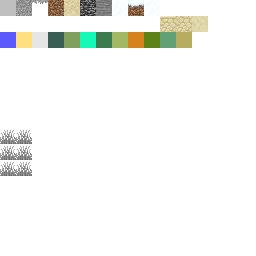
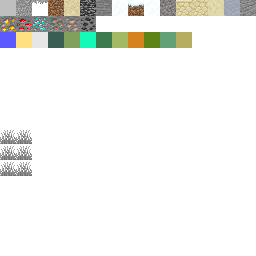
FEAT: inner biome 구성 및 beach, ocean biome 구성

Changed region(s): [[0.625, 0.0, 1.0, 0.125], [0.0, 0.0625, 0.375, 0.125]]

diff --git a/voxen/Terrain.h b/voxen/Terrain.h
@@ -279,23 +279,16 @@ namespace Terrain {
 		return max(elevation, 1.0f);
 	}
 
-	static float GetCaveDensity(
-		int x, int y, int z, float seed, float xScale, float yScale, float zScale)
-	{
-		float dNoise = PerlinFbm(x / xScale + seed, y / yScale + seed, z / zScale + seed, 2.0f, 4);
-
-		return dNoise;
-	}
-
 	static bool IsCave(int x, int y, int z)
 	{
 		float threshold = 0.004f;
 
-		float density1 = Terrain::GetCaveDensity(x, y, z, 3.0f, 256.0f, 256.0f, 256.0f);
+		float density1 = PerlinFbm(x / 256.0f, y / 256.0f, z / 256.0f, 2.0f, 4);
 		if (density1 * density1 > threshold)
 			return false; // ealry return
 
-		float density2 = Terrain::GetCaveDensity(x, y, z, 123.0f, 512.0f, 256.0f, 512.0f);
+		float density2 =
+			PerlinFbm(x / 512.0f + 123.0f, y / 256.0f + 123.0f, z / 512.0f + 123.0f, 2.0f, 4);
 		if (density2 * density2 > threshold)
 			return false;
 
@@ -322,6 +315,29 @@ namespace Terrain {
 		hNoise = std::clamp(hNoise * 1.5f, -1.0f, 1.0f);
 
 		return (hNoise + 1.0f) * 0.5f;
+	}
+
+	static float GetDistribution(int x, int z)
+	{
+		float scale = 24.0f;
+		float seed = 773.0f;
+
+		float dNoise = PerlinFbm(x / scale + seed, z / scale + seed, 2.0f, 4);
+		dNoise = std::clamp(dNoise * 1.5f, -1.0f, 1.0f);
+
+		return (dNoise + 1.0f) * 0.5f;
+	}
+
+	static float GetDensity(int x, int y, int z)
+	{
+		float scale = 16.0f;
+		float seed = 331.0f;
+
+		float dNoise = PerlinFbm(x / scale + seed, y / scale + seed, z / scale + seed, 2.0f, 2);
+
+		dNoise = std::clamp(dNoise * 1.5f, -1.0f, 1.0f);
+
+		return (dNoise + 1.0f) * 0.5f;
 	}
 
 	static BIOME_TYPE GetBiomeType(float elevation, float temperature, float humidity)
@@ -358,7 +374,7 @@ namespace Terrain {
 			}
 			else if (humidity < 0.75f) {
 				return BIOME_FOREST;
-			} 
+			}
 			else {
 				return BIOME_SWAMP;
 			}
@@ -378,14 +394,75 @@ namespace Terrain {
 		return BIOME_PLAINS;
 	}
 
-	static BLOCK_TYPE GetBlockTypeByBiome(BIOME_TYPE biomeType)
-	{ 
+	static BLOCK_TYPE GetBlockTypeForInner(int x, int y, int z, float distribution)
+	{
+		BLOCK_TYPE blockType;
+		
+		float density = GetDensity(x, y, z);
+		if (density <= 0.3f) {
+			blockType = BLOCK_DIRT;
+		}
+		else if (density <= 0.75f) {
+			blockType = BLOCK_STONE;
+		}
+		else if (density <= 0.88f) {
+			blockType = BLOCK_ANDESITE;
+		}
+		else {
+			if (distribution <= 0.4f) {
+				blockType = BLOCK_COAL_ORE;
+			}
+			else if (distribution <= 0.6f) {
+				blockType = BLOCK_COPPER_ORE;
+			}
+			else if (distribution <= 0.7f) {
+				blockType = BLOCK_IRON_ORE;
+			}
+			else if (distribution <= 0.8f) {
+				blockType = BLOCK_REDSTONE_ORE;
+			}
+			else if (distribution <= 0.9f) {
+				blockType = BLOCK_GOLD_ORE;
+			}
+			else {
+				blockType = BLOCK_DIAMOND_ORE;
+			}
+		}
+
+		return blockType;
+	}
+
+	static BLOCK_TYPE GetBlockTypeForBiome(BIOME_TYPE biomeType, int y, float h, float d)
+	{
+		int baseHeight = (int)floor(h);
+
 		switch (biomeType) {
+
 		case BIOME_OCEAN:
-			return BLOCK_A; 
+			if (d <= 0.42f) {
+				return BLOCK_SAND;
+			}
+			else if (d <= 0.66f) {
+				return BLOCK_DIRT;
+			}
+			else if (d <= 0.83f) {
+				return BLOCK_GRAVEL;
+			}
+			else {
+				return BLOCK_CLAY;
+			}
+			break;
 
 		case BIOME_BEACH:
-			return BLOCK_B;
+			if (d <= 0.66f) {
+				return BLOCK_SAND;
+			}
+			else if (d <= 0.83f) {
+				return BLOCK_SANDSTONE;
+			}
+			else {
+				return BLOCK_GRAVEL;
+			}
 
 		case BIOME_TUNDRA:
 			return BLOCK_C;
@@ -423,27 +500,26 @@ namespace Terrain {
 	}
 
 	static BLOCK_TYPE GetBlockType(int x, int y, int z, float elevation, float temperature,
-		float humidity, float continentalness, float erosion, float peaksValley)
+		float humidity, float continentalness, float erosion, float peaksValley, float distribution)
 	{
 		if (y == MIN_HEIGHT_LEVEL)
 			return BLOCK_BEDROCK;
 
 		BLOCK_TYPE blockType = (y <= WATER_HEIGHT_LEVEL) ? BLOCK_WATER : BLOCK_AIR;
 
-		if (y < elevation && !IsCave(x, y, z)) {
+		if (y <= elevation && !IsCave(x, y, z)) {
 			int biomeLayer =
-				1 + (int)(4.0f * (1.0f - erosion) * powf(((-peaksValley + 1.0f) * 0.5f), 0.5f));
+				1 + (int)(6.0f * (1.0f - erosion) * powf(((-peaksValley + 1.0f) * 0.5f), 0.5f));
 
 			if (y <= elevation - biomeLayer) {
-				blockType = BLOCK_STONE;
-				// 3D noise density
+				blockType = GetBlockTypeForInner(x, y, z, distribution);
 			}
 			else {
 				// Biome Block
 				float r = 32.0f * peaksValley * powf((1.0f - erosion), 1.25f);
 
 				BIOME_TYPE biomeType = GetBiomeType(elevation - r, temperature, humidity);
-				blockType = GetBlockTypeByBiome(biomeType);
+				blockType = GetBlockTypeForBiome(biomeType, y, elevation, distribution);
 			}
 		}
 
@@ -487,6 +563,41 @@ namespace Terrain {
 
 		case BLOCK_SNOW:
 			return TEXTURE_SNOW;
+
+		case BLOCK_GRAVEL:
+			return TEXTURE_GRAVEL;
+
+		case BLOCK_SANDSTONE:
+			if (face == DIR::TOP)
+				return TEXTURE_SANDSTONE_TOP;
+			else if (face == DIR::BOTTOM)
+				return TEXTURE_SANDSTONE_BOTTOM;
+			else
+				return TEXTURE_SANDSTONE_SIDE;
+
+		case BLOCK_CLAY:
+			return TEXTURE_CLAY;
+
+		case BLOCK_ANDESITE:
+			return TEXTURE_ANDESITE;
+
+		case BLOCK_COAL_ORE:
+			return TEXTURE_COAL_ORE;
+
+		case BLOCK_GOLD_ORE:
+			return TEXTURE_GOLD_ORE;
+
+		case BLOCK_REDSTONE_ORE:
+			return TEXTURE_REDSTONE_ORE;
+
+		case BLOCK_DIAMOND_ORE:
+			return TEXTURE_DIAMOND_ORE;
+
+		case BLOCK_COPPER_ORE:
+			return TEXTURE_COPPER_ORE;
+
+		case BLOCK_IRON_ORE:
+			return TEXTURE_IRON_ORE;
 
 		// TESTING
 		case BLOCK_A:

diff --git a/voxen/Structure.h b/voxen/Structure.h
@@ -38,6 +38,17 @@ enum BLOCK_TYPE : uint8_t {
 	BLOCK_STONE = 6,
 	BLOCK_SAND = 7,
 	BLOCK_SNOW = 8,
+	BLOCK_GRAVEL = 9,
+	BLOCK_SANDSTONE = 10,
+	BLOCK_CLAY = 11,
+	BLOCK_ANDESITE = 12,
+	BLOCK_COAL_ORE = 13,
+	BLOCK_GOLD_ORE = 14,
+	BLOCK_REDSTONE_ORE = 15,
+	BLOCK_DIAMOND_ORE = 16,
+	BLOCK_COPPER_ORE = 17,
+	BLOCK_IRON_ORE = 18,
+
 
 	// TESTING
 	BLOCK_A = 40,
@@ -66,6 +77,18 @@ enum TEXTURE_INDEX : uint8_t {
 	TEXTURE_SNOW_GRASS_TOP = 7,
 	TEXTURE_SNOW_GRASS_SIDE = 8,
 	TEXTURE_SNOW = 9,
+	TEXTURE_GRAVEL = 10,
+	TEXTURE_SANDSTONE_SIDE = 11,
+	TEXTURE_SANDSTONE_BOTTOM = 12,
+	TEXTURE_SANDSTONE_TOP = 13,
+	TEXTURE_CLAY = 14,
+	TEXTURE_ANDESITE = 15,
+	TEXTURE_GOLD_ORE = 16,
+	TEXTURE_REDSTONE_ORE = 17,
+	TEXTURE_DIAMOND_ORE = 18,
+	TEXTURE_COPPER_ORE = 19,
+	TEXTURE_IRON_ORE = 20,
+	TEXTURE_COAL_ORE = 21,
 
 	// TESTING
 	TEXTURE_A = 32,

diff --git a/voxen/Chunk.cpp b/voxen/Chunk.cpp
@@ -94,11 +94,13 @@ void Chunk::InitChunkData()
 			float temperature = Terrain::GetTemperature(worldX, worldZ);
 			float humidity = Terrain::GetHumidity(worldX, worldZ);
 
+			float distribution = Terrain::GetDistribution(worldX, worldZ);
+
 			for (int y = 0; y < CHUNK_SIZE_P; ++y) {
 				int worldY = (int)m_offsetPosition.y + y - 1;
 
-				BLOCK_TYPE blockType = Terrain::GetBlockType(
-					worldX, worldY, worldZ, elevation, temperature, humidity, continentalness, erosion, peaksValley);
+				BLOCK_TYPE blockType = Terrain::GetBlockType(worldX, worldY, worldZ, elevation,
+					temperature, humidity, continentalness, erosion, peaksValley, distribution);
 
 				m_blocks[x][y][z].SetType(blockType);
 			}

diff --git a/voxen/WorldMap.cpp b/voxen/WorldMap.cpp
@@ -165,7 +165,9 @@ Vector3 WorldMap::GenerateWorldMapColor(int x, int z)
 	float r = 32.0f * peaksValley * powf((1.0f - erosion), 1.25f);
 	BIOME_TYPE biomeType = Terrain::GetBiomeType(elevation - r, temperature, humidity);
 
-	return GetMapColorByBiome(biomeType);
+	Vector3 color = GetMapColorByBiome(biomeType);
+
+	return color;
 }
 
 Vector3 WorldMap::GetMapColorByBiome(BIOME_TYPE biomeType)
